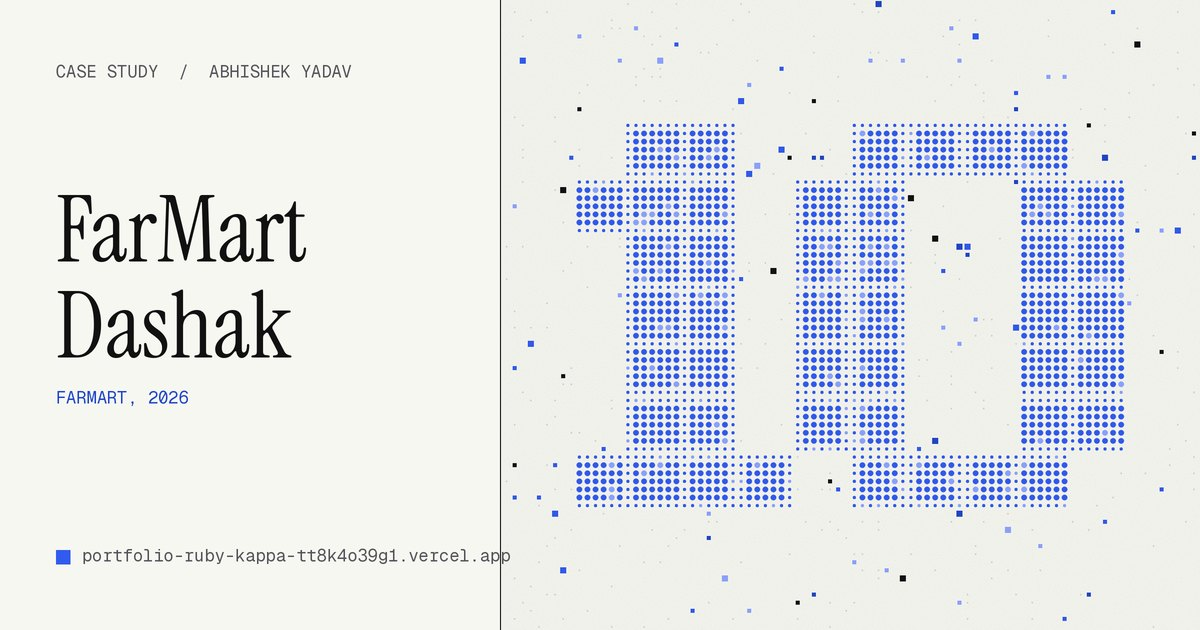
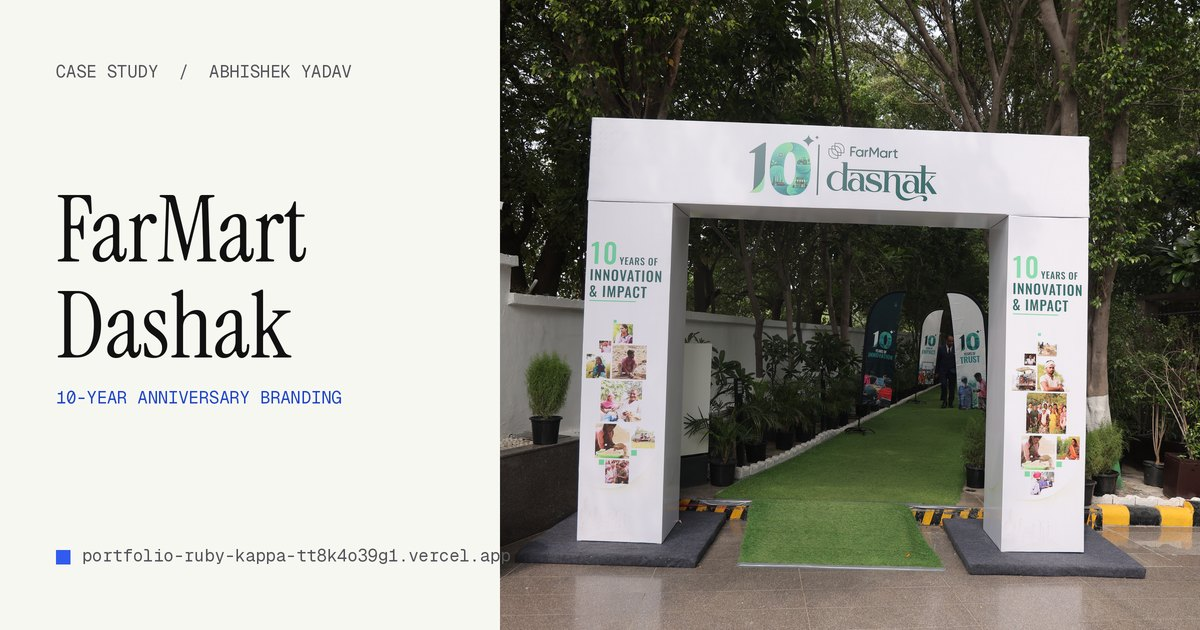
FarMart Dashak: real event photos (wall, arch and flags, standee, backdrop), photo-based share preview

diff --git a/work/farmart-dashak.html b/work/farmart-dashak.html
@@ -78,7 +78,7 @@
     <section class="cs-block"><div class="label">Mapping the two days</div><div class="copy"><p>I started by mapping what each day needed: the activities, the tone, and the awards. That showed where the identity had to stay fixed and where it could flex for the context.</p><p>I worked with FarMart&#x27;s marketing and event teams throughout, from understanding requirements and exploring directions to incorporating feedback and preparing final files for production.</p></div></section>
     <section class="cs-block"><div class="label">One system, every size</div><div class="copy"><p>The same visual language had to hold up across very different formats, each seen at a different distance:</p><ol class="scale"><li><span class="sc-sq" style="--s:1.0" aria-hidden="true"></span><span class="sc-t">10-year walls</span><span class="sc-d">Seen from across the venue</span></li><li><span class="sc-sq" style="--s:0.857" aria-hidden="true"></span><span class="sc-t">Backdrops and stage</span><span class="sc-d">Read in photos and from the audience</span></li><li><span class="sc-sq" style="--s:0.714" aria-hidden="true"></span><span class="sc-t">Flags and venue branding</span><span class="sc-d">Glimpsed while moving through the space</span></li><li><span class="sc-sq" style="--s:0.571" aria-hidden="true"></span><span class="sc-t">Event printables</span><span class="sc-d">Picked up and read</span></li><li><span class="sc-sq" style="--s:0.429" aria-hidden="true"></span><span class="sc-t">Certificates</span><span class="sc-d">Read up close, kept</span></li><li><span class="sc-sq" style="--s:0.286" aria-hidden="true"></span><span class="sc-t">Trophies</span><span class="sc-d">Held, photographed</span></li><li><span class="sc-sq" style="--s:0.143" aria-hidden="true"></span><span class="sc-t">Mementos</span><span class="sc-d">Taken home</span></li></ol><p>Large-format pieces had to work from a distance, while certificates, trophies and mementos needed finer, more refined detail. Everything was designed in Figma with physical production in mind.</p></div></section>
     <section class="cs-block"><div class="label">Key decisions</div><div class="copy"><ol class="decisions"><li><span class="dc-n">01</span><div><h3>Make “10 Years” the hero</h3><p>The milestone became the central visual element and the common thread connecting every asset and both days.</p></div></li><li><span class="dc-n">02</span><div><h3>One identity, two experiences</h3><p>Instead of separate branding for each day, a shared system that adapts, so the days feel connected while keeping their own character.</p></div></li><li><span class="dc-n">03</span><div><h3>Take the identity off the wall</h3><p>The branding extended into certificates, trophies and mementos, so the identity became something employees could take home.</p></div></li></ol></div></section>
-    <section class="cs-block figs"><div class="figure full"><span>[10-year wall]</span></div><div class="figure half"><span>[Sports Day environment]</span></div><div class="figure half"><span>[Main function stage]</span></div><div class="figure third"><span>[Flags]</span></div><div class="figure third"><span>[Certificate]</span></div><div class="figure third"><span>[Trophy]</span></div><div class="figure half"><span>[Memento]</span></div><div class="figure half"><span>[Figma explorations]</span></div><div class="figure full"><span>[One identity across every touchpoint]</span></div><p class="fig-cap">The identity across both days, from environment to objects.</p></section>
+    <section class="cs-block figs"><figure class="figure has-img full"><img src="/img/dashak/wall.jpg" alt="A long white wall titled &#x27;Every chapter led us here. The story continues.&#x27; A timeline runs from 2016 to 2026 with milestones and a band of photos from FarMart&#x27;s decade." loading="lazy" decoding="async" width="1200" height="800"><figcaption>The 10-year wall: FarMart&#x27;s decade as a timeline, from 2016 to 2026.</figcaption></figure><figure class="figure has-img half"><img src="/img/dashak/arch.jpg" alt="A white entrance arch with the 10 FarMart dashak lockup, leading down a green carpet lined with feather flags." loading="lazy" decoding="async" width="1200" height="800"><figcaption>The entrance arch and flags leading into the venue.</figcaption></figure><figure class="figure has-img half"><img src="/img/dashak/standee.jpg" alt="A large standee reading &#x27;10 years of innovation and impact&#x27;, with 3D letters for the illustrated 10 and the dashak wordmark." loading="lazy" decoding="async" width="1200" height="800"><figcaption>Signage at the venue: the illustrated 10 as a 3D object.</figcaption></figure><figure class="figure has-img full"><img src="/img/dashak/backdrop.jpg" alt="A dark backdrop with the illustrated green 10, the FarMart logo and the dashak wordmark in white." loading="lazy" decoding="async" width="1200" height="800"><figcaption>The dark version of the lockup on the event backdrop.</figcaption></figure></section>
     <section class="cs-block"><div class="label">Outcome</div><div class="copy"><p>The branding ran across both days of the celebration, with one visual language across:</p><ul class="chips"><li>10-year walls</li><li>Backdrops</li><li>Flags</li><li>Certificates</li><li>Trophies</li><li>Mementos</li><li>Event printables</li><li>On-ground branding</li><li>Event creatives</li></ul></div></section>
     <section class="cs-block"><div class="label">Team</div><div class="copy"><p>Designed with:</p><ul class="team"><li><a href="https://www.linkedin.com/in/akshaysharma007/" rel="noopener" target="_blank"><span class="tm-mark" aria-hidden="true"></span>Akshay Sharma<span class="tm-go">LinkedIn</span></a></li><li><a href="https://www.linkedin.com/in/anjali-choudhary-4b964827a/" rel="noopener" target="_blank"><span class="tm-mark" aria-hidden="true"></span>Anjali Choudhary<span class="tm-go">LinkedIn</span></a></li></ul><p class="team-note">Working with FarMart&#x27;s marketing and event teams.</p></div></section>
     <section class="cs-block"><div class="label">What I learned</div><div class="copy"><p class="big">Designing beyond the screen. Physical production meant thinking about viewing distance, scale and the object in someone&#x27;s hand, not just a frame in Figma.</p></div></section>

diff --git a/assets/styles.css b/assets/styles.css
@@ -587,3 +587,6 @@ section[id], footer[id] { scroll-margin-top: 88px; }
   .num:nth-child(3) { border-left: 0; padding-left: 0; }
   .num:nth-child(n+3) { border-top: 1px solid var(--line); }
 }
+.figure.has-img { display: block; aspect-ratio: auto !important; border: 0; background: none; margin: 0; }
+.figure.has-img img { display: block; width: 100%; height: auto; aspect-ratio: 3 / 2; object-fit: cover; border: 1px solid var(--line); background: var(--field); }
+.figure.has-img figcaption { margin-top: 10px; font: 12px/1.5 var(--mono); color: var(--meta); }

diff --git a/build.py b/build.py
@@ -280,7 +280,14 @@ def render_sections(secs):
           <ol class="tiers">{tiers}</ol>
         </div><p>{e(x['note'])}</p></div></section>""")
         elif t == "figures":
-            figs = "".join(f'<div class="figure {sz}"><span>[{e(lbl)}]</span></div>' for lbl, sz in x["items"])
+            def fig(it):
+                lbl, sz = it[0], it[1]
+                if len(it) > 2:
+                    src, alt, cap = it[2], it[3], it[4] if len(it) > 4 else ""
+                    capt = f'<figcaption>{e(cap)}</figcaption>' if cap else ""
+                    return f'<figure class="figure has-img {sz}"><img src="{e(src)}" alt="{e(alt)}" loading="lazy" decoding="async" width="1200" height="800">{capt}</figure>'
+                return f'<div class="figure {sz}"><span>[{e(lbl)}]</span></div>'
+            figs = "".join(fig(it) for it in x["items"])
             cap = f'<p class="fig-cap">{e(x["caption"])}</p>' if x.get("caption") else ""
             out.append(f'<section class="cs-block figs">{figs}{cap}</section>')
         elif t == "chips":
